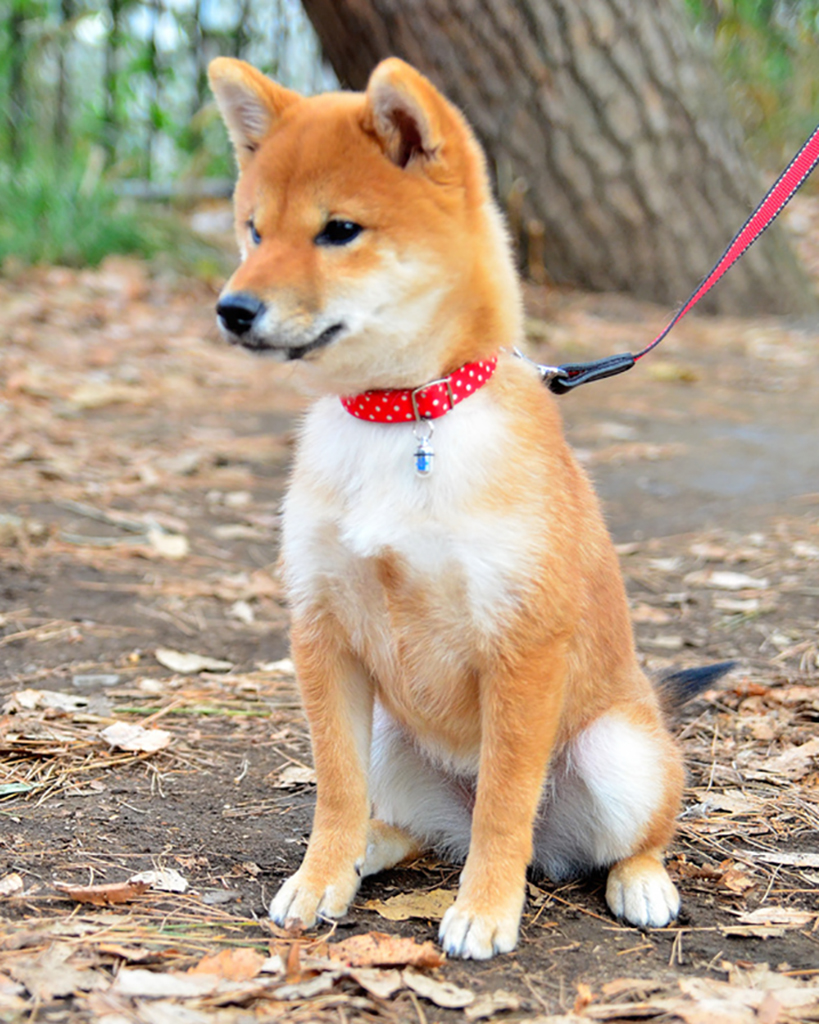
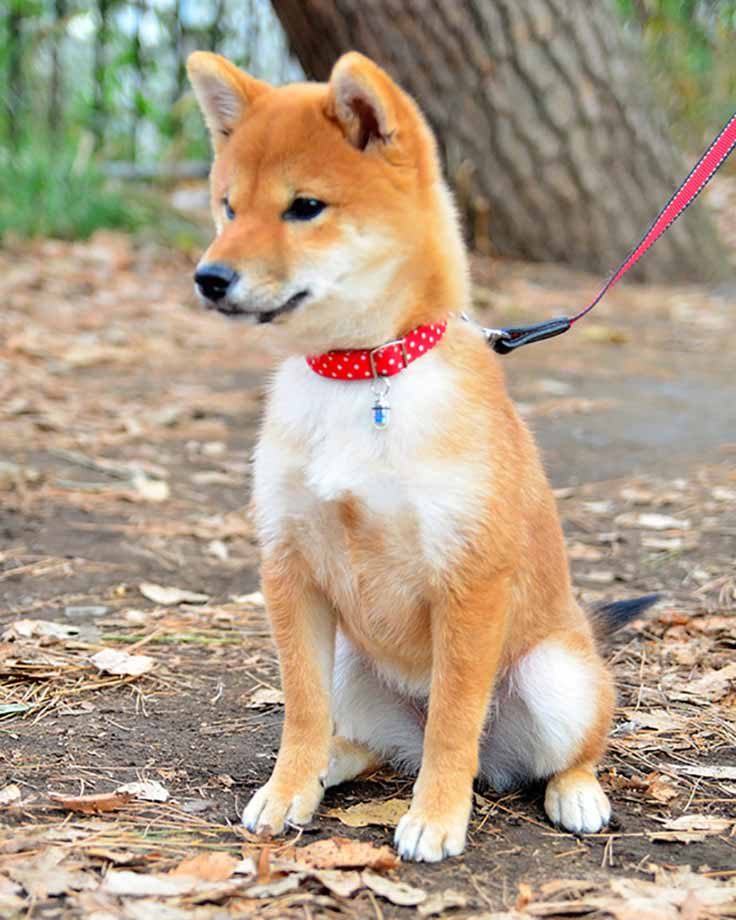
Compressed retina images
Used photoshop to resize the photos to their proper web resolution, so
that the website is not slow.

diff --git a/pages/about.html b/pages/about.html
@@ -57,16 +57,12 @@
     <p class="pform">Within the comforts of our approved foster homes, we then provide the necessary medical attention, rehabilitation, emotional support, and re-training for all rescued dogs that come into our care. Only then, through careful screening, do we find loving forever homes for these dogs.</p>
   </div>
 
-  <div class="unit xs-1 s-1 m-1 l-1 push pad-t-1-2 gutter-2 max-length-no-center">
-    <img class="img-flex" src="../images/pitbull.jpeg" alt="">
-  </div>
-
   <div class="milli max-length-no-center text-left gutter-2 line-separator pad-t-2">
-    <h2 class="yotta push-2">How We Do It</h2>
+    <h2 class="yotta push-1-2">How We Do It</h2>
     <p class="pform">Applications for adoption can be submitted directly through our website. Every potential adopter must go through our 5-step adoption process. If you are a previous LOYAL adopter please contact us first so that we can determine whether all 5 steps will need to be completed again.</p>
   </div>
   <div class="milli max-length-no-center text-left gutter-2 line-separator pad-t-2">
-    <h2 class="mega push-1-2">Step 1: Submit an Application</h2>
+    <h2 class="mega">Step 1: Submit an Application</h2>
     <p class="pform push-2">Visit our website often as we post new, available dogs on a daily basis. If we have a rescued dog that is available and that you are interested in adopting, please fill out an online adoption application online. Alternatively, you are welcome to send us an e-mail to confirm that that dog is available for adoption. If the words "adoption pending" or "pending" are next to their name, we are no longer accepting applications. Our website updates every few days, so even if these words are not next to the dogs name, they may have a pending adoption in play. Some dogs (like puppies and other young dogs) are very popular, and because we are 100% volunteer run we are only able to process so many application at a time.</p>
   </div>
   <div class="milli max-length-no-center text-left gutter-2 line-separator pad-t-2">
@@ -85,6 +81,7 @@
     <h2 class="mega push-1-2">Step 5: Adoption</h2>
     <p class="pform push-2">If approved, you are then welcome to set up a time for a meet-and-greet with the dog and its foster family, and if you choose to proceed with the adoption then an adoption contract is to be completed, along with the pre-determined adoption donation and, finally, pick-up of the dog by its new forever home.</p>
   </div>
+
   <div class="mega max-length-no-center text-left gutter-2 pad-t-2">
     <i class="icon i-64 push-1-2 content-shrink">
       <svg><use xlink:href="../images/icons.svg#house" /></svg>

diff --git a/index.html b/index.html
@@ -1247,11 +1247,11 @@
                 </i>
               </button>
               <code><pre id="dividers-dividers-code-sample-copy-chunk">&lt;div class="milli max-length-no-center text-left gutter-2 line-separator pad-t-2"&gt;
-  &lt;h2 class="yotta push-2">How We Do It&lt;/h2>
+  &lt;h2 class="yotta push-1-2">How We Do It&lt;/h2>
   &lt;p class="pform">Applications for adoption can be submitted directly through our website. Every potential adopter must go through our 5-step adoption process. If you are a previous LOYAL adopter please contact us first so that we can determine whether all 5 steps will need to be completed again.&lt;/p>
 &lt;/div>
 &lt;div class="milli max-length-no-center text-left gutter-2 line-separator pad-t-2">
-  &lt;h2 class="mega push-1-2">Step 1: Submit an Application&lt;/h2>
+  &lt;h2 class="mega">Step 1: Submit an Application&lt;/h2>
   &lt;p class="pform push-2">Visit our website often as we post new, available dogs on a daily basis. If we have a rescued dog that is available and that you are interested in adopting, please fill out an online adoption application online. Alternatively, you are welcome to send us an e-mail to confirm that that dog is available for adoption. If the words &quot;adoption pending&quot; or &quot;pending&quot; are next to their name, we are no longer accepting applications. Our website updates every few days, so even if these words are not next to the dogs name, they may have a pending adoption in play. Some dogs (like puppies and other young dogs) are very popular, and because we are 100% volunteer run we are only able to process so many application at a time.&lt;/p>
 &lt;/div>
 &lt;div class="milli max-length-no-center text-left gutter-2 line-separator pad-t-2">

diff --git a/patterns/dividers/dividers.html b/patterns/dividers/dividers.html
@@ -14,11 +14,11 @@
 <body>
 
   <div class="milli max-length-no-center text-left gutter-2 line-separator pad-t-2">
-    <h2 class="yotta push-2">How We Do It</h2>
+    <h2 class="yotta push-1-2">How We Do It</h2>
     <p class="pform">Applications for adoption can be submitted directly through our website. Every potential adopter must go through our 5-step adoption process. If you are a previous LOYAL adopter please contact us first so that we can determine whether all 5 steps will need to be completed again.</p>
   </div>
   <div class="milli max-length-no-center text-left gutter-2 line-separator pad-t-2">
-    <h2 class="mega push-1-2">Step 1: Submit an Application</h2>
+    <h2 class="mega">Step 1: Submit an Application</h2>
     <p class="pform push-2">Visit our website often as we post new, available dogs on a daily basis. If we have a rescued dog that is available and that you are interested in adopting, please fill out an online adoption application online. Alternatively, you are welcome to send us an e-mail to confirm that that dog is available for adoption. If the words "adoption pending" or "pending" are next to their name, we are no longer accepting applications. Our website updates every few days, so even if these words are not next to the dogs name, they may have a pending adoption in play. Some dogs (like puppies and other young dogs) are very popular, and because we are 100% volunteer run we are only able to process so many application at a time.</p>
   </div>
   <div class="milli max-length-no-center text-left gutter-2 line-separator pad-t-2">

diff --git a/patterns/dividers/dividers.css b/patterns/dividers/dividers.css
@@ -3,7 +3,6 @@
 }
 
 .line-separator {
-  height: -2px;
   border-bottom: 1px solid var(--color-primary);
 }
 
